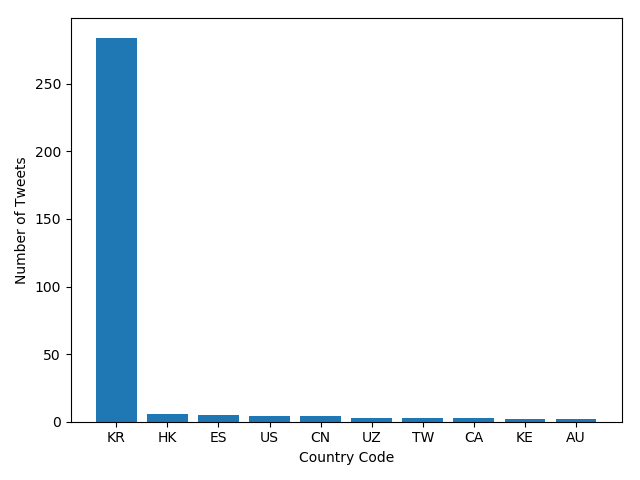
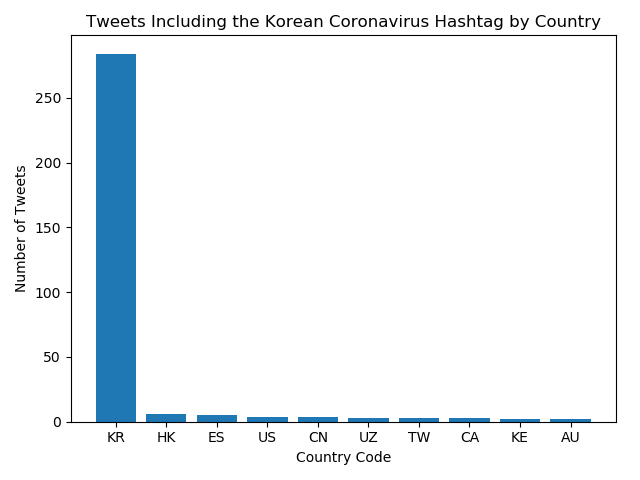
added titles

diff --git a/src/visualize.py b/src/visualize.py
@@ -43,18 +43,18 @@ fig = plt.bar(ind, values)
 realnum = [50000, 100000, 150000, 200000]
 plt.ylabel('Number of Tweets')
 plt.xticks(ind, keys)
-#title = 'Tweets Including'
-#if "coronavirus" in args.key:
-    #title += f' {args.key} by'
-#else:
-    #title += " the Korean Coronavirus Hashtag by"
+title = 'Tweets Including'
+if "coronavirus" in args.key:
+    title += f" '{args.key}' by"
+else:
+    title += " the Korean Coronavirus Hashtag by"
 if "country" in args.input_path:
-    #title += ' Country'
+    title += ' Country'
     axis = 'Country Code'
 else:
-    #title += 'language'
+    title += ' Language'
     axis = 'Language Code'
-#plt.title(title)
+plt.title(title)
 plt.xlabel(axis)
 # fig, ax = plt.subplots(nrows=1, ncols=1)
 # ax.plot(keys[0:11], values[0:11])

diff --git a/src/alternative_reduce.py b/src/alternative_reduce.py
@@ -38,6 +38,7 @@ dates = [0, 58, 119, 180, 242, 303]
 months = ['Jan.', "March", "May", "July", "Sept.", "Nov."]
 plt.xticks(dates, months)
 plt.xlabel('Date (2020)')
+plt.title("Tweets with Coronavirus Hashtags per Day in 2020")
 # fig, ax = plt.subplots(nrows=1, ncols=1)
 # ax.plot(keys[0:11], values[0:11])
 plt.legend()
